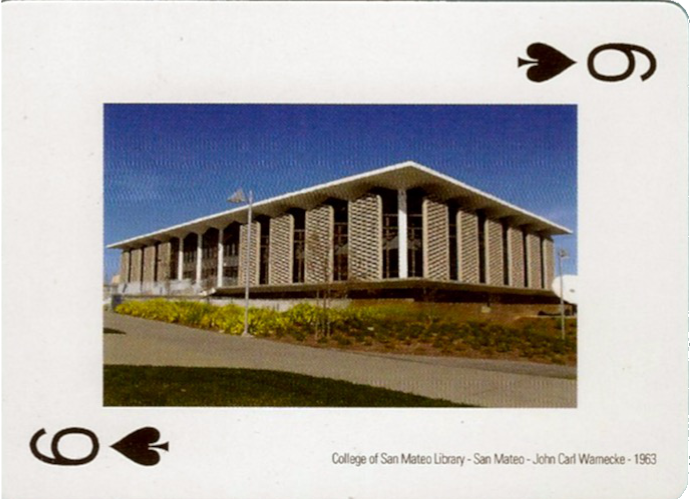
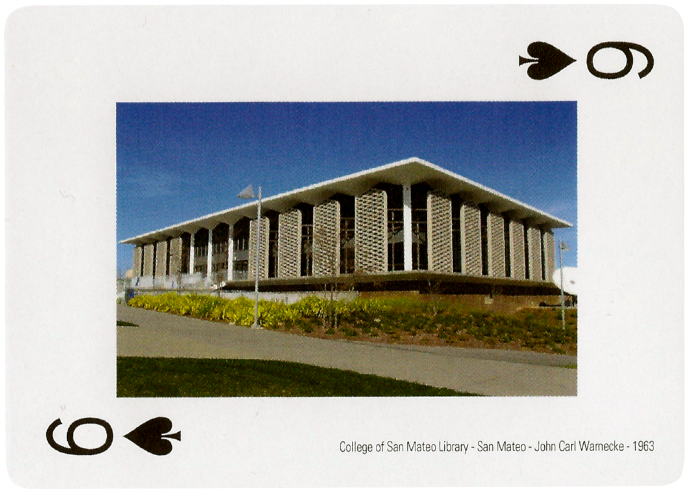
higher res pictures, case study caption and responsive layout tweaks

diff --git a/build/index.html b/build/index.html
@@ -1,2 +1,2 @@
 <!DOCTYPE html><html lang="en"></html><meta name="viewport" content="width=device-width, initial-scale=1.0"/><head><title>Bay Area Modern Cards</title><meta charset="UTF-8"/><meta name="viewport" content="width=device-width, initial-scale=1"/><link rel="shortcut icon" href="assets/img/favicon.ico"/><link rel="stylesheet" href="assets/css/main.css"/><script src="https://use.fontawesome.com/107afcc669.js"></script></head><body><div class="header"><h1> 
-Bay <br/>Area <br/>Modern</h1><div class="navbar"><ul class="nav"><li class="big"><a href="#buy">Buy</a></li><li class="big"><a href="#exploreDeck">Explore</a></li><li class="big"><a href="mailto:info@calmodbooks.com">Contact</a></li><li class="big"><a href="#stores">Stores</a></li></ul></div></div><section class="buyNow"><a id="buy"></a><div class="col-1"><img src="/assets/img/deck_noBg.png"/></div><div class="col-2"><div class="description"><div id="text"><p>How well do you know Bay Area Modernism? </p><p>Test your knowledge, or play a game of Rummy, with this deck of 52 architecture cards, each featuring a modern building in the San Francisco Bay Area. </p><p>Each card suit showcases 13 buildings, which could be used as the foundation for a self-guided architecture tour. </p></div><button>Buy Now</button></div></div></section><section class="quote"><div class="quote-bg"><div class="quote-box"><p>“From International to Organic, from Googie to Brutalism, explore some of the unique architecture of the San Francisco Bay Area.”</p></div></div></section><section class="exploreDeck"><a id="exploreDeck"></a><h2>Explore the Deck</h2><div class="cards-wrap"><div id="card1" class="card-hor"><div id="active" class="caption"><p>Distinctive in design, the <span>San Jose Center for the Performing Arts (1972)</span> represents an architectural “who’s who” of some of the brightest minds of Taliesin Associates, Frank Lloyd Wright’s atelier.  An excellent example of organic modernism, both exterior and interior spaces are characterized by spiral ramps, decorative arches and spheres.</p></div><img src="/assets/img/cards/sjpa.png"/></div><div id="card2" class="card-vert"><div class="caption standard"><p>San Francisco’s iconic <span>Transamerica Pyramid </span>stands an impressive 853 feet.  Designed by architect William Pereira, the idea behind the building’s shape was to allow for natural light to hit the city streets below. The building, which is covered in white quartz, dates to 1972.</p></div><img src="/assets/img/cards/pyramid.png"/></div><div id="card3" class="card-vert"><div class="caption standard"><p><span>The Paul Masson Champagne Cellars</span> and visitor’s center opened in Saratoga in 1959. Designed by John Savage Bolles, the ultramodern winery inspired a traveling photographic exhibition, featuring the work of Ansel Adams.  A giant metal sculpture by Gurdon Woods called "Effervescence of Champagne" once stood at the entrance.</p></div><img src="/assets/img/cards/paulMason.png"/></div><div id="card4" class="card-hor"><div class="caption standard"><p><span>The College of San Mateo</span>, designed by architect John Carl Warnecke, opened in 1963. Buildings were constructed using a combination of concrete, glass, and steel.  The campus’ visual centerpiece was, and continues to be, its library.</p></div><img src="/assets/img/cards/csm.png"/></div><div id="card5" class="card-hor"><div class="caption standard"><p> </p></div><img src="/assets/img/cards/caseStudyHouse.png"/></div><div id="card6" class="card-vert"><div class="caption standard"><p>San Jose’s award-winning <span>IBM campus</span>, designed by architect John Savage Bolles, opened in 1958.  Buildings were accented with brick and multicolored tiles, the tile pattern said to mimic an IBM punch card.  The centerpiece in the IBM campus’ art collection was the Hydro Gyro, a giant kinetic metal sculpture designed by the artist Bob Howard.</p></div><img src="/assets/img/cards/ibm.png"/></div></div></section><section class="stores"><a id="stores"></a><div class="box"><div class="col-1"><h2>Retailers</h2><p class="store"><span>SFMOMA Gift Shop</span><br/>151 3rd St<br/>San Francisco, CA 94103 </p><p class="store"><span>William Stout Architectural Book</span><br/>804 Montgomery St<br/>San Francisco, CA 94133</p><p class="store"><span>Antiques Colony </span><br/>1881 W San Carlos St<br/>San Jose, CA 95128</p></div><div class="col-2"><img src="/assets/img/bottom1.jpg"/><img src="/assets/img/bottom4.jpg"/><img src="/assets/img/bottom3.jpg"/><img src="/assets/img/bottom2.jpg"/></div></div></section><footer><div class="small copyright"><p>Copyright Calmodbooks 2016</p></div><div class="social"><ul class="social-list"><li><a href="mailto:info@calmodbooks.com"><i class="fa fa-envelope"></i><span class="hide">Email</span></a></li><li><a> <i class="fa fa-facebook-square"></i><span class="hide">Facebook</span></a></li><li><a><i class="fa fa-flickr"></i><span class="hide">Flickr</span></a></li></ul></div></footer><script src="https://code.jquery.com/jquery-2.2.3.min.js"></script><script src="/assets/js/functions.js"></script></body>
+Bay <br/>Area <br/>Modern</h1><div class="navbar"><ul class="nav"><li class="big"><a href="#buy">Buy</a></li><li class="big"><a href="#exploreDeck">Explore</a></li><li class="big"><a href="mailto:info@calmodbooks.com">Contact</a></li><li class="big"><a href="#stores">Stores</a></li></ul></div></div><section class="buyNow"><a id="buy"></a><div class="col-1"><img src="/assets/img/deck_noBg.png"/></div><div class="col-2"><div class="description"><div id="text"><p>How well do you know Bay Area Modernism? </p><p>Test your knowledge, or play a game of Rummy, with this deck of 52 architecture cards, each featuring a modern building in the San Francisco Bay Area. </p><p>Each card suit showcases 13 buildings, which could be used as the foundation for a self-guided architecture tour. </p></div><button>Buy Now</button></div></div></section><section class="quote"><div class="quote-bg"><div class="quote-box"><p>“From International to Organic, from Googie to Brutalism, explore some of the unique architecture of the San Francisco Bay Area.”</p></div></div></section><section class="exploreDeck"><a id="exploreDeck"></a><h2>Explore the Deck</h2><div class="cards-wrap"><div id="card1" class="card-hor"><div id="active" class="caption"><p>Distinctive in design, the <span>San Jose Center for the Performing Arts (1972)</span> represents an architectural “who’s who” of some of the brightest minds of Taliesin Associates, Frank Lloyd Wright’s atelier.  An excellent example of organic modernism, both exterior and interior spaces are characterized by spiral ramps, decorative arches and spheres.</p></div><img src="/assets/img/cards/sjpa.png"/></div><div id="card2" class="card-vert"><div class="caption standard"><p>San Francisco’s iconic <span>Transamerica Pyramid </span>stands an impressive 853 feet.  Designed by architect William Pereira, the idea behind the building’s shape was to allow for natural light to hit the city streets below. The building, which is covered in white quartz, dates to 1972.</p></div><img src="/assets/img/cards/pyramid.png"/></div><div id="card3" class="card-vert"><div class="caption standard"><p><span>The Paul Masson Champagne Cellars</span> and visitor’s center opened in Saratoga in 1959. Designed by John Savage Bolles, the ultramodern winery inspired a traveling photographic exhibition, featuring the work of Ansel Adams.  A giant metal sculpture by Gurdon Woods called "Effervescence of Champagne" once stood at the entrance.</p></div><img src="/assets/img/cards/paulMason.png"/></div><div id="card4" class="card-hor"><div class="caption standard"><p><span>The College of San Mateo</span>, designed by architect John Carl Warnecke, opened in 1963. Buildings were constructed using a combination of concrete, glass, and steel.  The campus’ visual centerpiece was, and continues to be, its library.</p></div><img src="/assets/img/cards/csm.png"/></div><div id="card5" class="card-hor"><div class="caption standard"><p>Built on a sloping hill in Marin County, <span>Case Study #26 (1962 – 1963)</span> is Northern California’s only Case Study house.  To minimize excavation, architect Beverley David Thorne utilized an innovative design that offsets the main living area from the carport/entry way.  All the major rooms of the home, with the exception of the kitchen, breakfast room, and foyer, offer panoramic views.</p></div><img src="/assets/img/cards/caseStudyHouse.png"/></div><div id="card6" class="card-vert"><div class="caption standard"><p>San Jose’s award-winning <span>IBM campus</span>, designed by architect John Savage Bolles, opened in 1958.  Buildings were accented with brick and multicolored tiles, the tile pattern said to mimic an IBM punch card.  The centerpiece in the IBM campus’ art collection was the Hydro Gyro, a giant kinetic metal sculpture designed by the artist Bob Howard.</p></div><img src="/assets/img/cards/ibm.png"/></div></div></section><section class="stores"><a id="stores"></a><div class="box"><div class="col-1"><h2>Retailers</h2><p class="store"><span>SFMOMA Gift Shop</span><br/>151 3rd St<br/>San Francisco, CA 94103 </p><p class="store"><span>William Stout Architectural Book</span><br/>804 Montgomery St<br/>San Francisco, CA 94133</p><p class="store"><span>Antiques Colony </span><br/>1881 W San Carlos St<br/>San Jose, CA 95128</p></div><div class="col-2"><img src="/assets/img/bottom1.jpg"/><img src="/assets/img/bottom4.jpg"/><img src="/assets/img/bottom3.jpg"/><img src="/assets/img/bottom2.jpg"/></div></div></section><footer><div class="small copyright"><p>Copyright Calmodbooks 2016</p></div><div class="social"><ul class="social-list"><li><a href="mailto:info@calmodbooks.com"><i class="fa fa-envelope"></i><span class="hide">Email</span></a></li><li><a href="https://www.facebook.com/groups/115002571865695/"><i class="fa fa-facebook-square"></i><span class="hide">Facebook</span></a></li><li><a href="https://www.flickr.com/photos/14696209@N02/"><i class="fa fa-flickr"></i><span class="hide">Flickr</span></a></li></ul></div></footer><script src="https://code.jquery.com/jquery-2.2.3.min.js"></script><script src="/assets/js/functions.js"></script></body>

diff --git a/build/includes/cards.html b/build/includes/cards.html
@@ -1,1 +1,1 @@
-<section class="exploreDeck"><a id="exploreDeck"></a><h2>Explore the Deck</h2><div class="cards-wrap"><div id="card1" class="card-hor"><div id="active" class="caption"><p>Distinctive in design, the <span>San Jose Center for the Performing Arts (1972)</span> represents an architectural “who’s who” of some of the brightest minds of Taliesin Associates, Frank Lloyd Wright’s atelier.  An excellent example of organic modernism, both exterior and interior spaces are characterized by spiral ramps, decorative arches and spheres.</p></div><img src="/assets/img/cards/sjpa.png"/></div><div id="card2" class="card-vert"><div class="caption standard"><p>San Francisco’s iconic <span>Transamerica Pyramid </span>stands an impressive 853 feet.  Designed by architect William Pereira, the idea behind the building’s shape was to allow for natural light to hit the city streets below. The building, which is covered in white quartz, dates to 1972.</p></div><img src="/assets/img/cards/pyramid.png"/></div><div id="card3" class="card-vert"><div class="caption standard"><p><span>The Paul Masson Champagne Cellars</span> and visitor’s center opened in Saratoga in 1959. Designed by John Savage Bolles, the ultramodern winery inspired a traveling photographic exhibition, featuring the work of Ansel Adams.  A giant metal sculpture by Gurdon Woods called "Effervescence of Champagne" once stood at the entrance.</p></div><img src="/assets/img/cards/paulMason.png"/></div><div id="card4" class="card-hor"><div class="caption standard"><p><span>The College of San Mateo</span>, designed by architect John Carl Warnecke, opened in 1963. Buildings were constructed using a combination of concrete, glass, and steel.  The campus’ visual centerpiece was, and continues to be, its library.</p></div><img src="/assets/img/cards/csm.png"/></div><div id="card5" class="card-hor"><div class="caption standard"><p> </p></div><img src="/assets/img/cards/caseStudyHouse.png"/></div><div id="card6" class="card-vert"><div class="caption standard"><p>San Jose’s award-winning <span>IBM campus</span>, designed by architect John Savage Bolles, opened in 1958.  Buildings were accented with brick and multicolored tiles, the tile pattern said to mimic an IBM punch card.  The centerpiece in the IBM campus’ art collection was the Hydro Gyro, a giant kinetic metal sculpture designed by the artist Bob Howard.</p></div><img src="/assets/img/cards/ibm.png"/></div></div></section>
+<section class="exploreDeck"><a id="exploreDeck"></a><h2>Explore the Deck</h2><div class="cards-wrap"><div id="card1" class="card-hor"><div id="active" class="caption"><p>Distinctive in design, the <span>San Jose Center for the Performing Arts (1972)</span> represents an architectural “who’s who” of some of the brightest minds of Taliesin Associates, Frank Lloyd Wright’s atelier.  An excellent example of organic modernism, both exterior and interior spaces are characterized by spiral ramps, decorative arches and spheres.</p></div><img src="/assets/img/cards/sjpa.png"/></div><div id="card2" class="card-vert"><div class="caption standard"><p>San Francisco’s iconic <span>Transamerica Pyramid </span>stands an impressive 853 feet.  Designed by architect William Pereira, the idea behind the building’s shape was to allow for natural light to hit the city streets below. The building, which is covered in white quartz, dates to 1972.</p></div><img src="/assets/img/cards/pyramid.png"/></div><div id="card3" class="card-vert"><div class="caption standard"><p><span>The Paul Masson Champagne Cellars</span> and visitor’s center opened in Saratoga in 1959. Designed by John Savage Bolles, the ultramodern winery inspired a traveling photographic exhibition, featuring the work of Ansel Adams.  A giant metal sculpture by Gurdon Woods called "Effervescence of Champagne" once stood at the entrance.</p></div><img src="/assets/img/cards/paulMason.png"/></div><div id="card4" class="card-hor"><div class="caption standard"><p><span>The College of San Mateo</span>, designed by architect John Carl Warnecke, opened in 1963. Buildings were constructed using a combination of concrete, glass, and steel.  The campus’ visual centerpiece was, and continues to be, its library.</p></div><img src="/assets/img/cards/csm.png"/></div><div id="card5" class="card-hor"><div class="caption standard"><p>Built on a sloping hill in Marin County, <span>Case Study #26 (1962 – 1963)</span> is Northern California’s only Case Study house.  To minimize excavation, architect Beverley David Thorne utilized an innovative design that offsets the main living area from the carport/entry way.  All the major rooms of the home, with the exception of the kitchen, breakfast room, and foyer, offer panoramic views.</p></div><img src="/assets/img/cards/caseStudyHouse.png"/></div><div id="card6" class="card-vert"><div class="caption standard"><p>San Jose’s award-winning <span>IBM campus</span>, designed by architect John Savage Bolles, opened in 1958.  Buildings were accented with brick and multicolored tiles, the tile pattern said to mimic an IBM punch card.  The centerpiece in the IBM campus’ art collection was the Hydro Gyro, a giant kinetic metal sculpture designed by the artist Bob Howard.</p></div><img src="/assets/img/cards/ibm.png"/></div></div></section>

diff --git a/build/assets/css/main.css b/build/assets/css/main.css
@@ -594,11 +594,12 @@ section {
     text-align: center; }
     section .cards-wrap .card-hor,
     section .cards-wrap .card-vert {
-      width: 100%;
+      width: 70%;
       margin: 10px; }
-      section .cards-wrap .card-hor img,
-      section .cards-wrap .card-vert img {
-        width: 90%; }
+    section .cards-wrap .caption {
+      font-size: 14px; }
+    section .cards-wrap .card-vert .caption {
+      padding: 20px 70px; }
     section .cards-wrap #card1 {
       -ms-flex-order: 1;
           order: 1; }
@@ -619,6 +620,25 @@ section {
           order: 66; }
     section .cards-wrap .caption {
       padding: 30px; } }
+
+@media (max-width: 500px) {
+  section .cards-wrap .card-hor,
+  section .cards-wrap .card-vert {
+    width: 80%; }
+  section .cards-wrap .card-vert .caption {
+    padding: 20px 40px; }
+  section .cards-wrap .caption {
+    font-size: 12px; }
+  section .cards-wrap .card-hor .caption {
+    padding: 10px; } }
+
+@media (max-width: 400px) {
+  section .cards-wrap .caption {
+    font-size: 11px; }
+  section .cards-wrap .card-hor .caption {
+    padding: 5px; }
+  section .cards-wrap .card-vert .caption {
+    padding: 10px 30px; } }
 
 section.stores {
   background-color: #FFFFFF;

diff --git a/build/includes/footer.html b/build/includes/footer.html
@@ -1,1 +1,1 @@
-<footer><div class="small copyright"><p>Copyright Calmodbooks 2016</p></div><div class="social"><ul class="social-list"><li><a href="mailto:info@calmodbooks.com"><i class="fa fa-envelope"></i><span class="hide">Email</span></a></li><li><a> <i class="fa fa-facebook-square"></i><span class="hide">Facebook</span></a></li><li><a><i class="fa fa-flickr"></i><span class="hide">Flickr</span></a></li></ul></div></footer>
+<footer><div class="small copyright"><p>Copyright Calmodbooks 2016</p></div><div class="social"><ul class="social-list"><li><a href="mailto:info@calmodbooks.com"><i class="fa fa-envelope"></i><span class="hide">Email</span></a></li><li><a href="https://www.facebook.com/groups/115002571865695/"><i class="fa fa-facebook-square"></i><span class="hide">Facebook</span></a></li><li><a href="https://www.flickr.com/photos/14696209@N02/"><i class="fa fa-flickr"></i><span class="hide">Flickr</span></a></li></ul></div></footer>

diff --git a/source/assets/css/4-pages/_cards.sass b/source/assets/css/4-pages/_cards.sass
@@ -111,10 +111,13 @@ section
       text-align: center
       .card-hor,
       .card-vert
-        width: 100%
+        width: 70%
         margin: 10px
-        img
-          width: 90%
+      .caption
+        font-size: 14px
+      .card-vert
+        .caption
+          padding: 20px 70px
       #card1
         order: 1
       #card3
@@ -130,6 +133,30 @@ section
       .caption
         padding: 30px
 
+@media(max-width:500px)
+  section
+    .cards-wrap
+      .card-hor,
+      .card-vert
+        width: 80%
+      .card-vert
+        .caption
+          padding: 20px 40px
+      .caption
+        font-size: 12px
+      .card-hor
+        .caption
+          padding: 10px
 
-
+@media(max-width:400px)
+  section
+    .cards-wrap
+      .caption
+        font-size: 11px
+      .card-hor
+        .caption
+          padding: 5px
+      .card-vert
+        .caption
+          padding: 10px 30px
     

diff --git a/build/assets/js/functions.js b/build/assets/js/functions.js
@@ -6,7 +6,7 @@ $(window).on('scroll', function(){
   captionPop();
 });
 //removes overlay, so standard animation cna kick in
-  $('.standard, #active').on('mouseenter', function(){
+  $('.standard, #active').on('mouseenter touch', function(){
     $('#active').removeClass('show');
   });
   

diff --git a/source/assets/js/functions.js b/source/assets/js/functions.js
@@ -6,7 +6,7 @@ $(window).on('scroll', function(){
   captionPop();
 });
 //removes overlay, so standard animation cna kick in
-  $('.standard, #active').on('mouseenter', function(){
+  $('.standard, #active').on('mouseenter touch', function(){
     $('#active').removeClass('show');
   });
   
